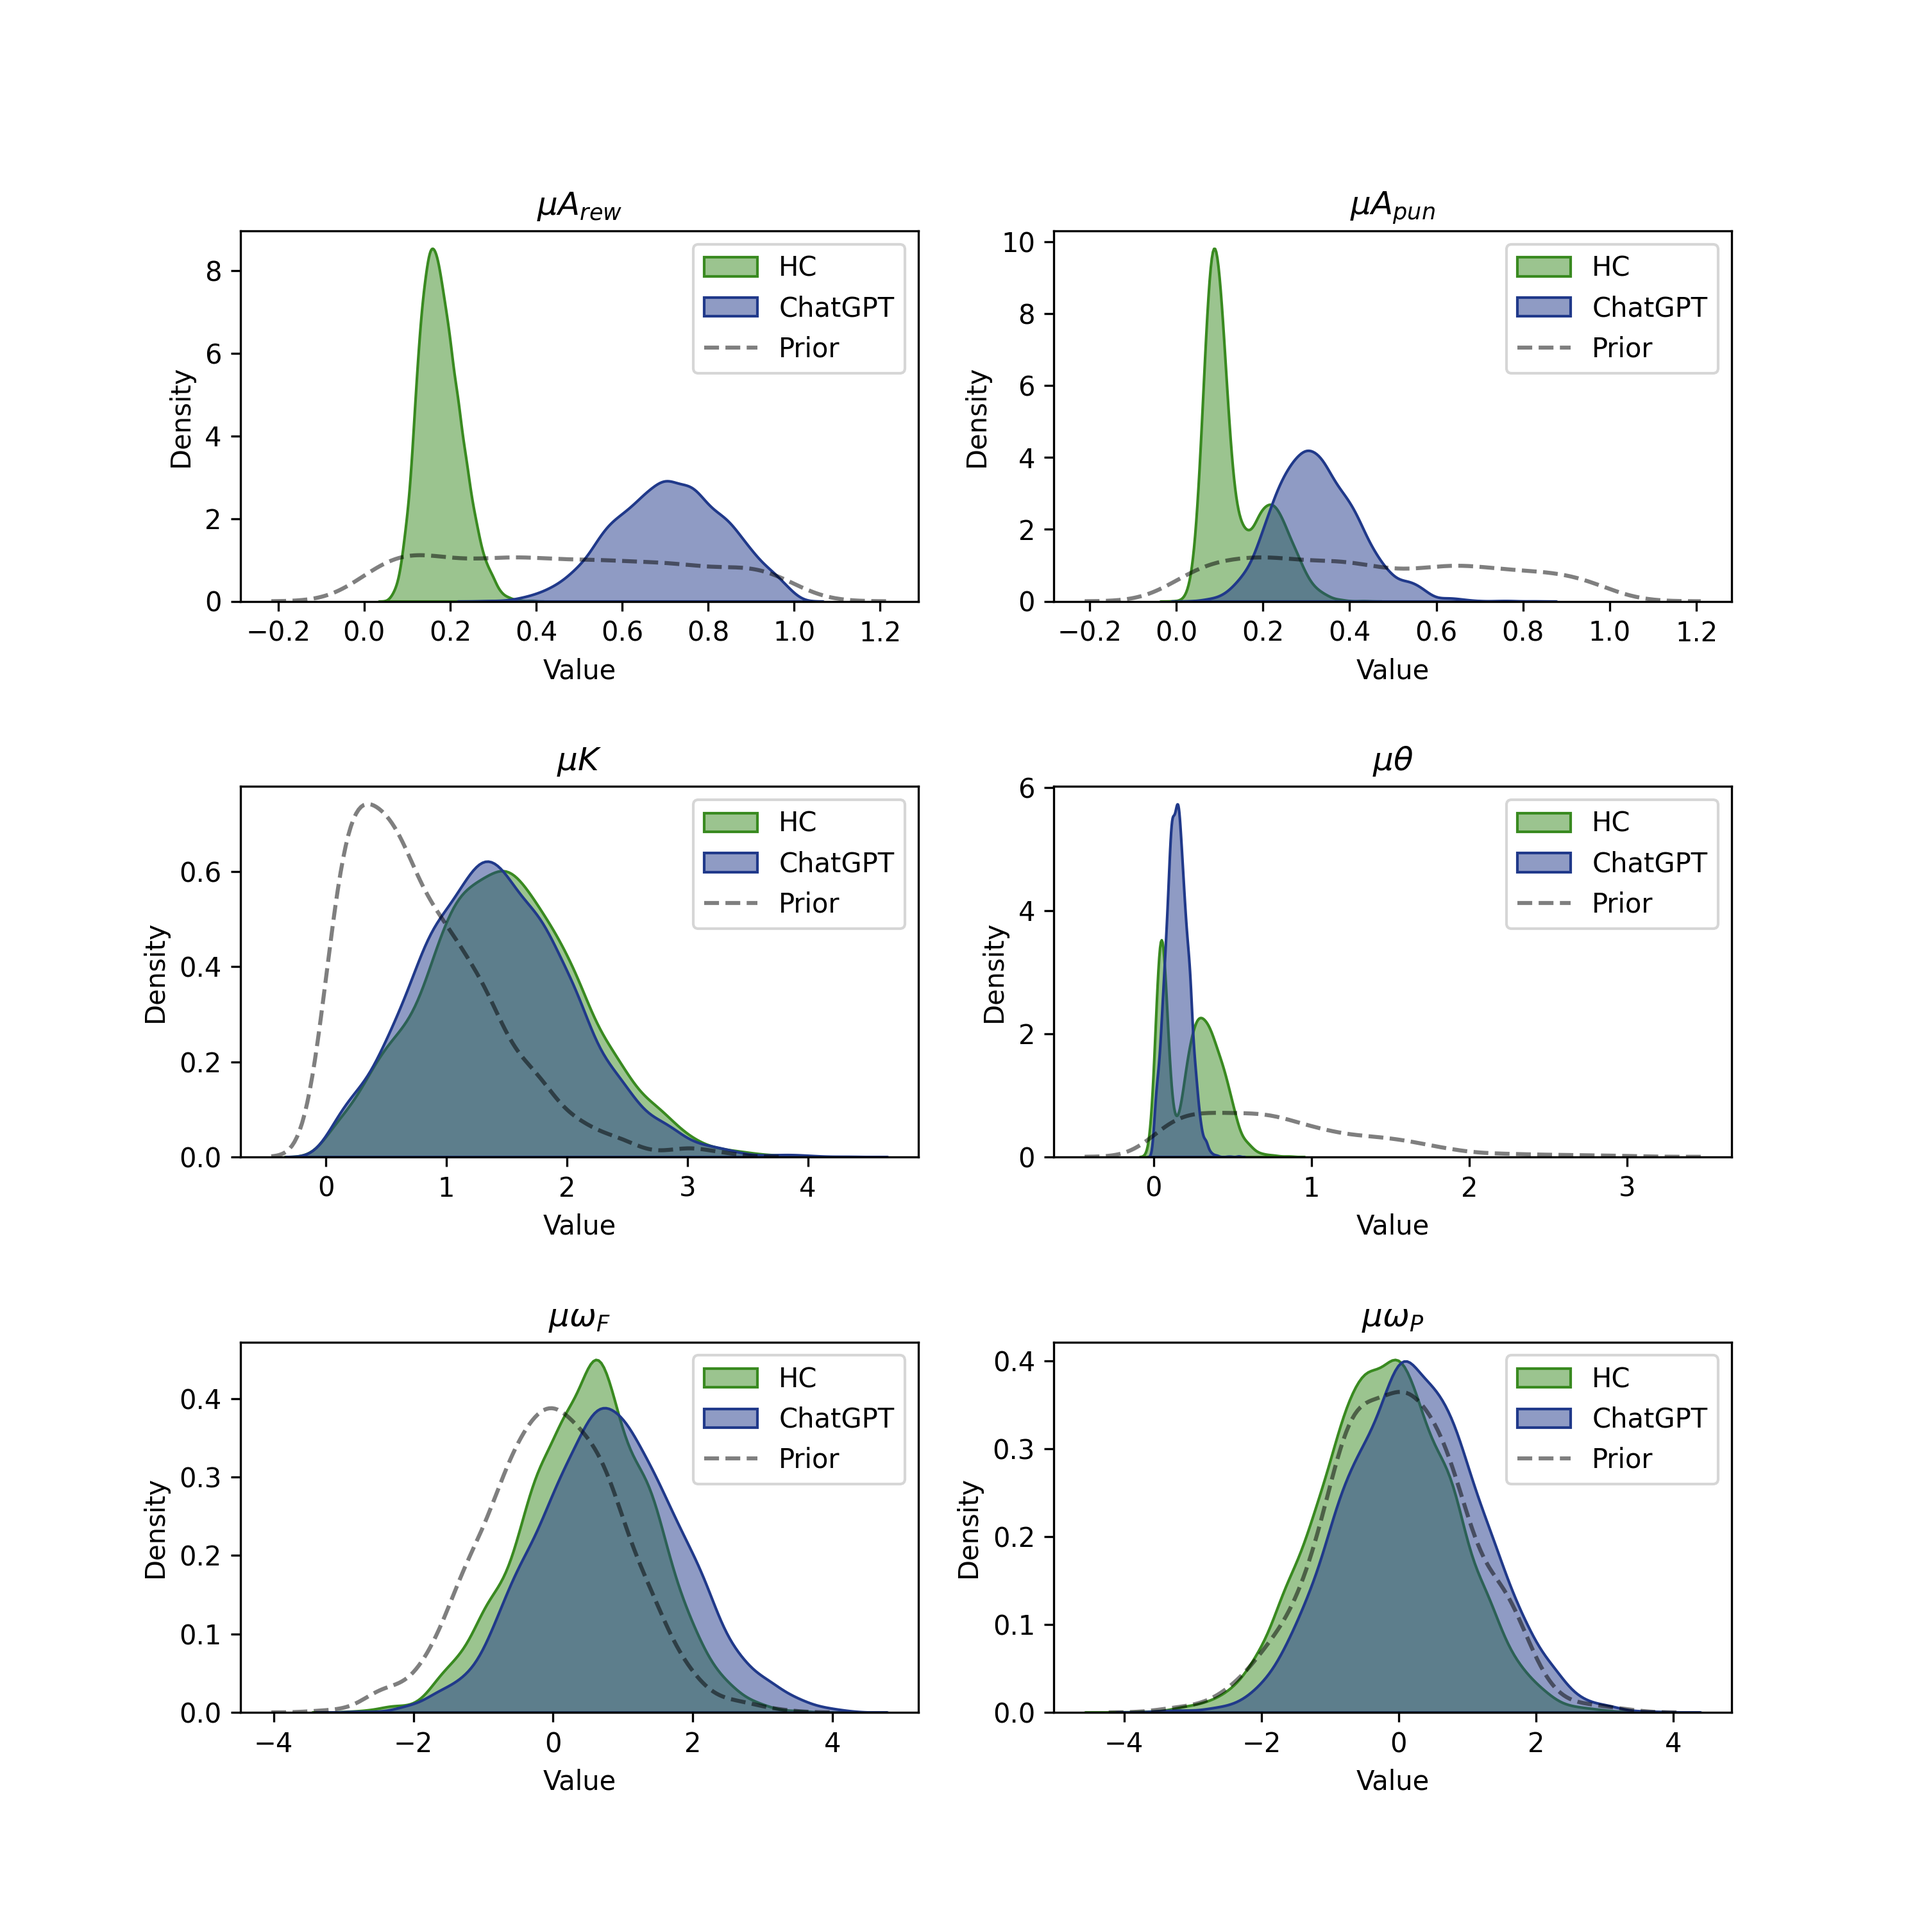
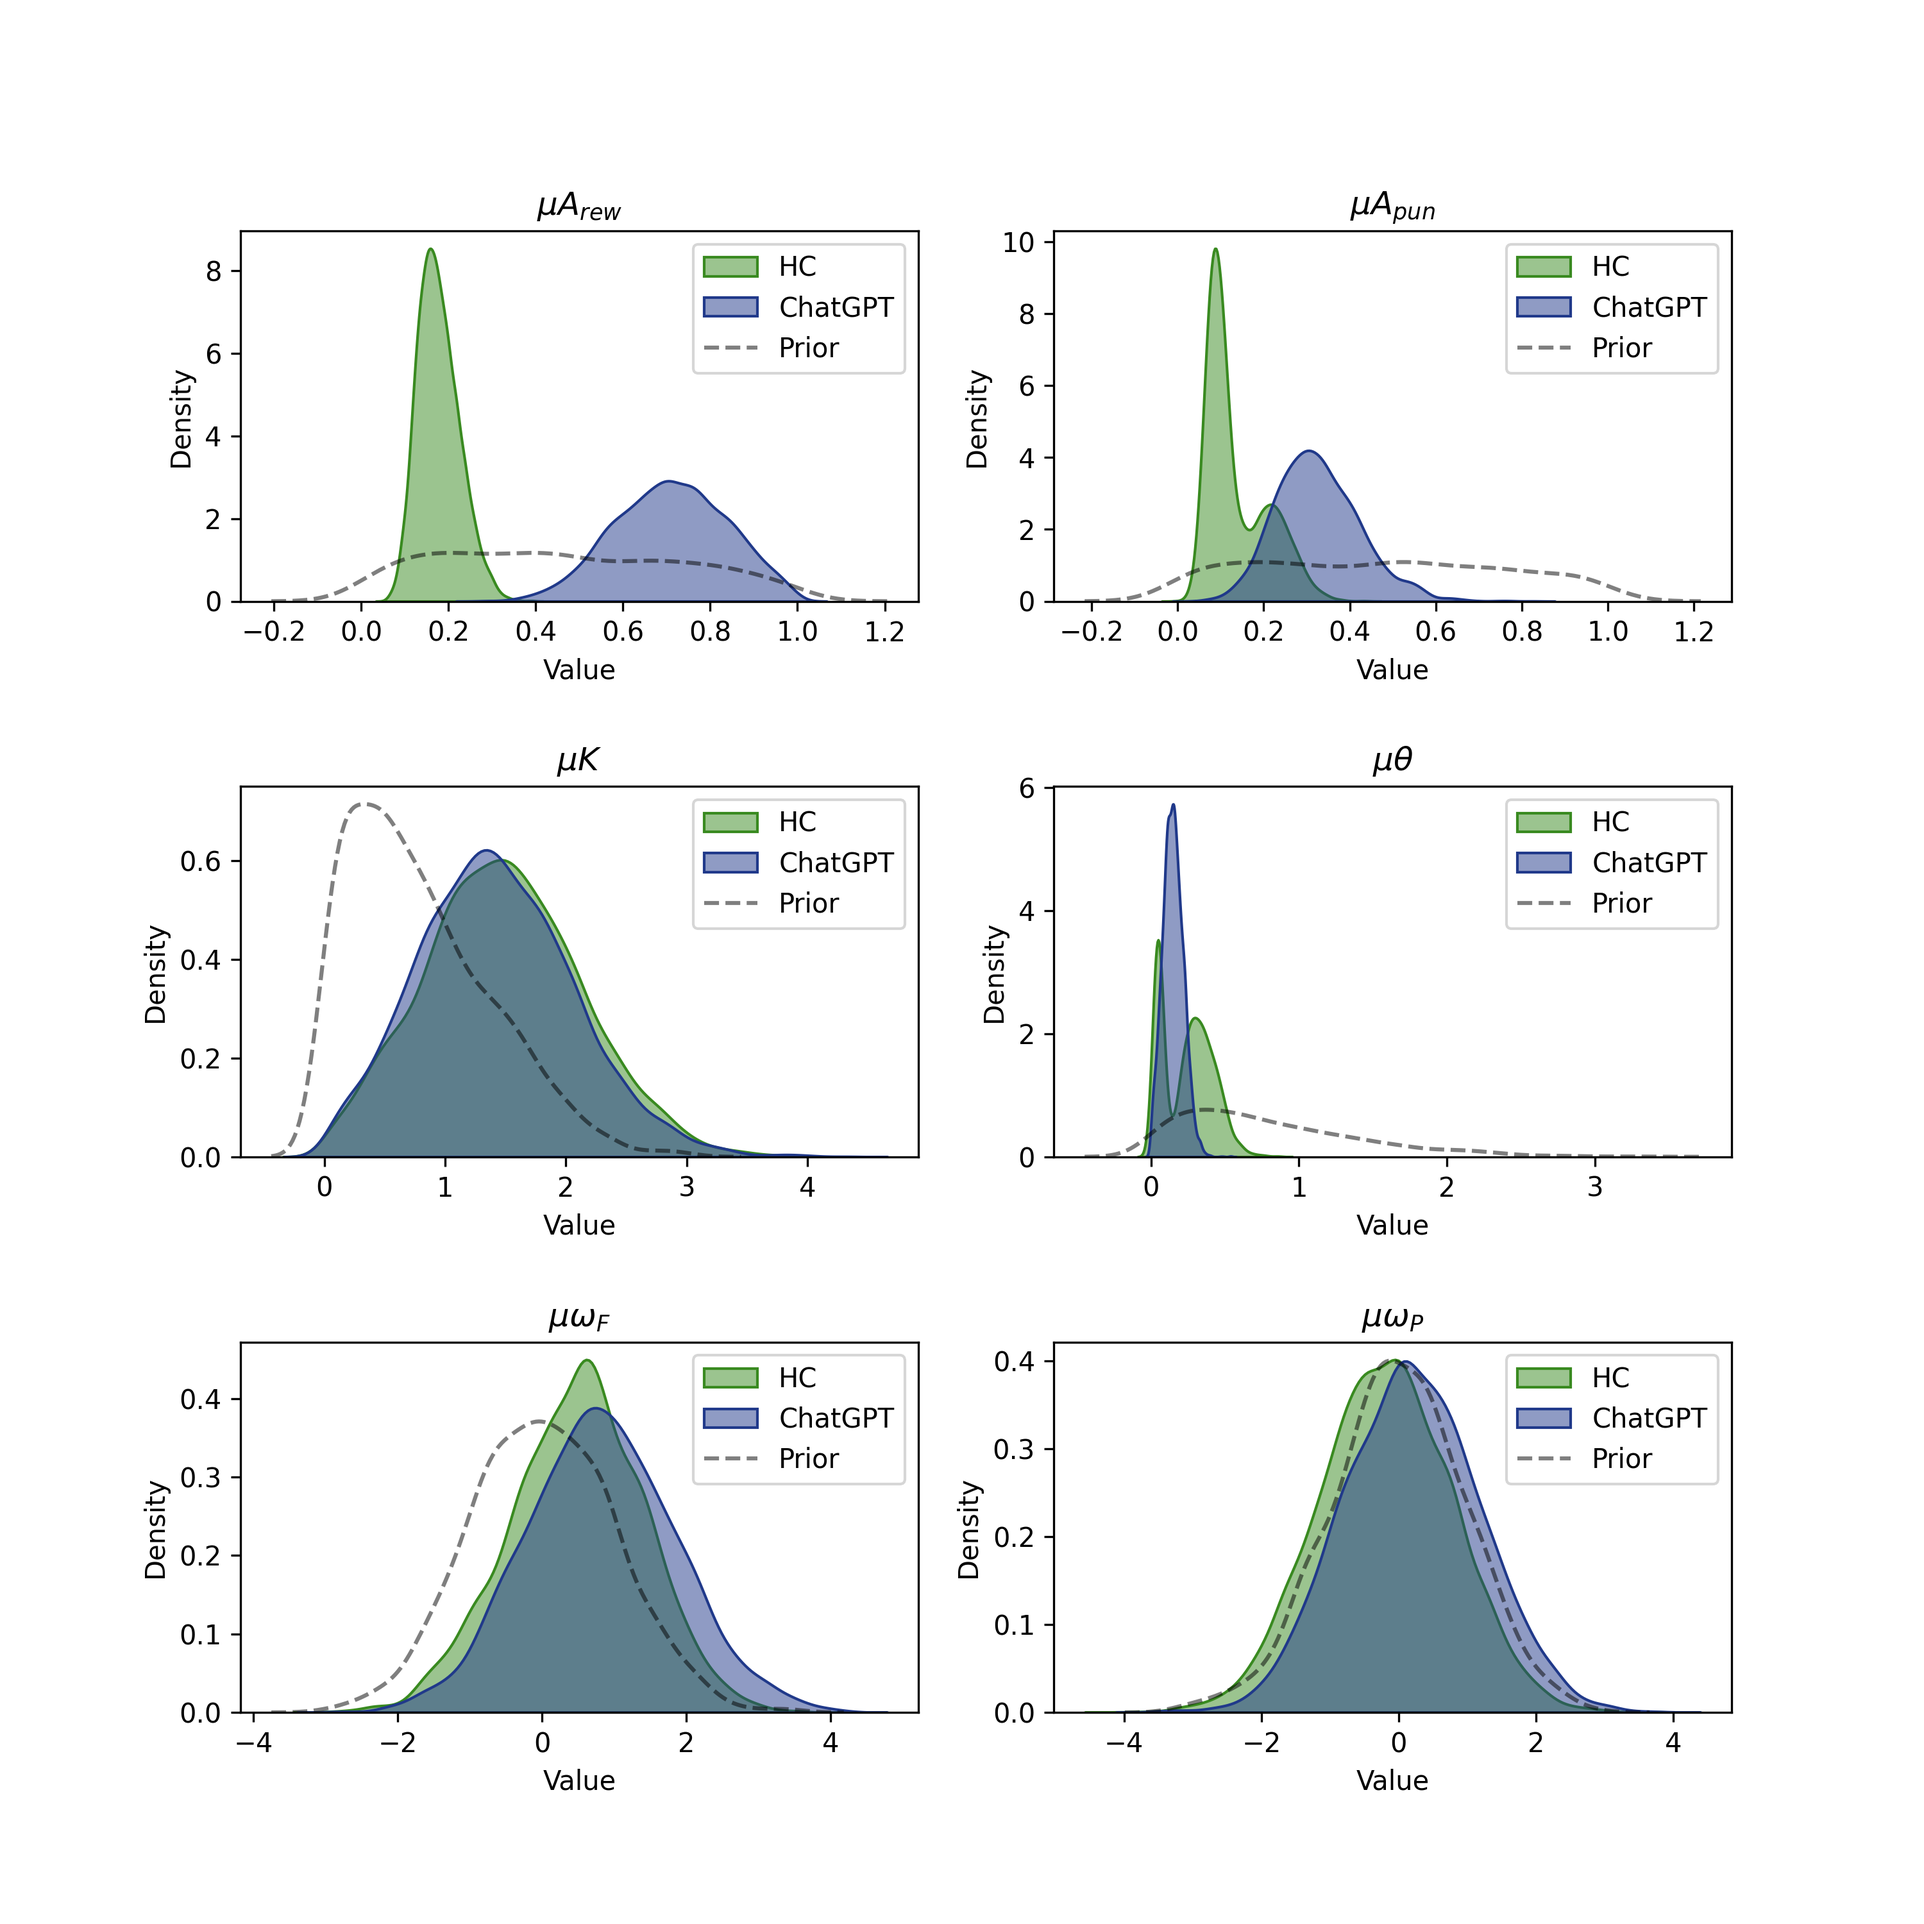
added plots for comparing hc samples

diff --git a/src/estimation/plot_estimates.py b/src/estimation/plot_estimates.py
@@ -72,9 +72,6 @@ def plot_hc_posteriors(main_hc_sample, other_hc_samples, parameters=[("mu_a_rew"
     for i, (param_name, param_title) in enumerate(parameters):
         ax = axs[i // 2, i % 2]
 
-        # Plot for main dataframe
-        sns.kdeplot(main_hc_sample[param_name], ax=ax, fill=True, alpha=0.5, label="Main", color=main_color)
-
         # Plot for other dataframes
         for other_df in other_hc_samples:
             sns.kdeplot(other_df[param_name], ax=ax, fill=True, alpha=0.5, color=other_color, legend=False)
@@ -83,6 +80,9 @@ def plot_hc_posteriors(main_hc_sample, other_hc_samples, parameters=[("mu_a_rew"
         if show_priors and priors:
             prior_samples = priors[param_name](1000)
             sns.kdeplot(prior_samples, ax=ax, color="k", linestyle="--", alpha=0.5, label="Prior")
+        
+                # Plot for main dataframe
+        sns.kdeplot(main_hc_sample[param_name], ax=ax, fill=True, alpha=0.5, label="Selected Group", color=main_color)
 
         ax.set_title(param_title)
         ax.set_xlabel("Value")
@@ -166,6 +166,15 @@ def main():
 
     # plot posteriors
     plot_posteriors(hc_data_params, gpt_data_params, save_path=path.parents[2] / "src" / "estimation" / "plots" / "posterior_compare_w_priors", show_priors=True)
+
+     # load all csv files in the extra_samples subfolder in results
+    hc_samples = []
+    for file in (data_path / "extra_samples").glob("*.csv"):
+        hc_samples.append(pd.read_csv(file))
+    
+    # plot posteriors
+    plot_hc_posteriors(hc_data_params, hc_samples, save_path=path.parents[2] / "src" / "estimation" / "plots" / "posterior_compare_hc")
+
 
     # load posterior predictions data
     hc_data_pred = pd.read_csv(data_path / "pred_success_ahn_hc.csv")
